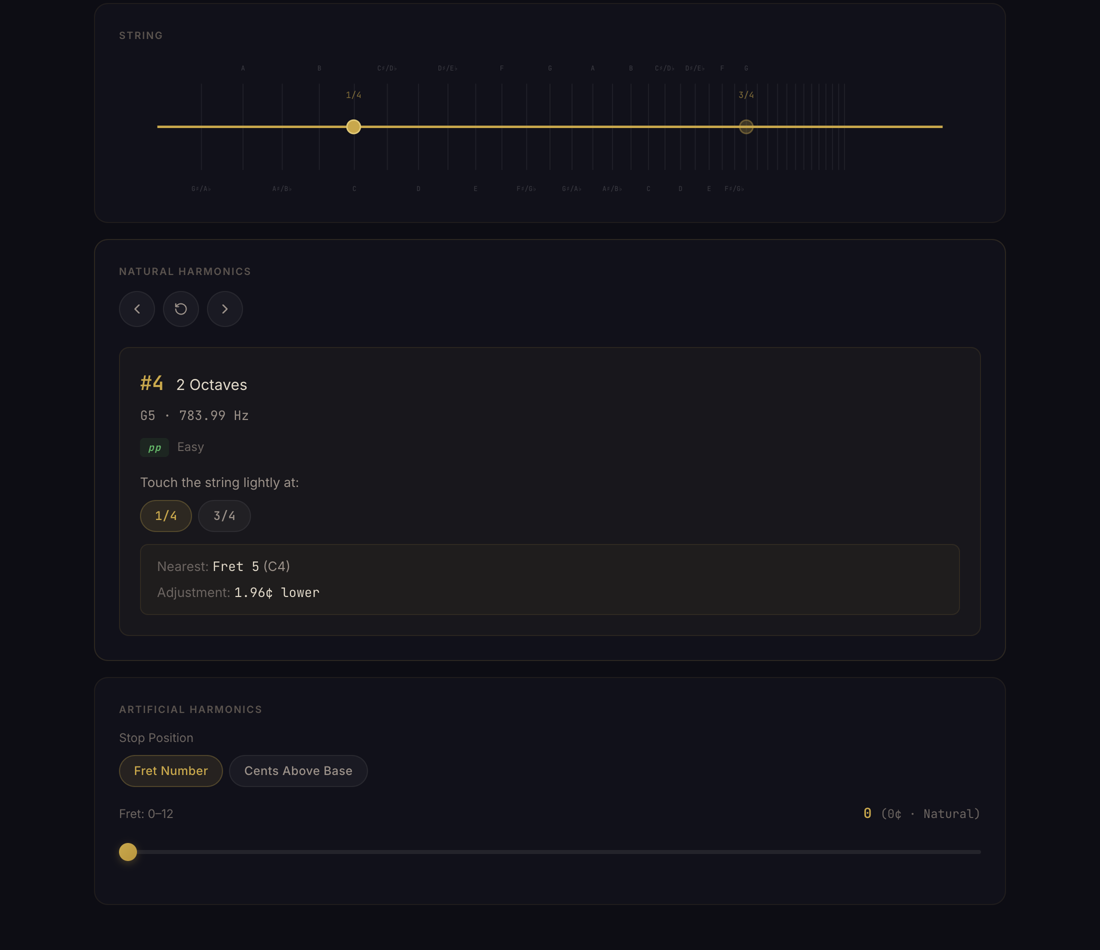
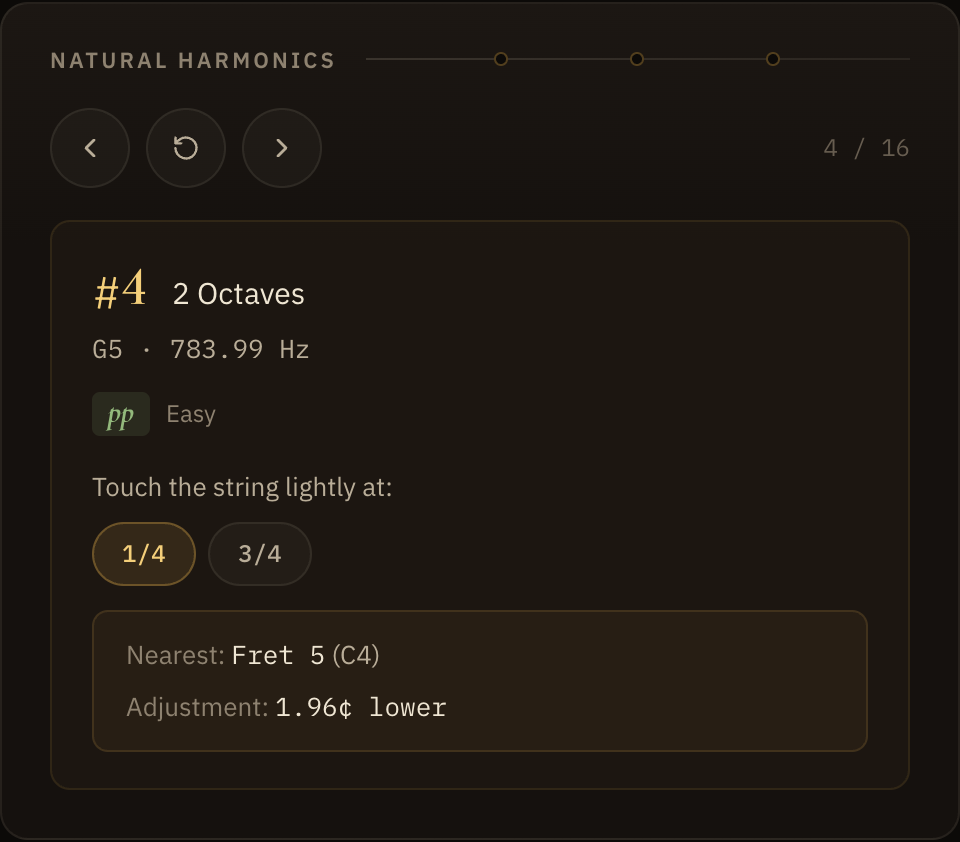
docs: document the new sound, visualizer features and UI with fresh screenshots
The README now covers the modal sound model and which modes survive a
touch, the timbre chart, the drawn Helmholtz motion, the stiff-string
option (formula, the illustrative B = 1.0 × 10⁻⁴ and its effect), the
header simulation, shareable URLs, accessibility and the new file
layout, with each formula pointing at the function that computes it.
Limitations are updated: the sine-tone and missing-tests notes are gone,
and the idealisations of the new models are stated instead.

New screenshots of the redesigned app, taken from the production build:
overview, artificial and natural harmonic panels, timbre, stiff string
and phone.

diff --git a/README.md b/README.md
@@ -1,50 +1,143 @@
 # HarmonicViz
 
-An interactive guide to string harmonics for violin, viola, cello and double bass. Pick a string and a harmonic, and it shows where to touch the string, how far that point is from the nearest semitone position (in cents), and the pitch that sounds.
+An interactive guide to string harmonics for violin, viola, cello and double bass. Pick a string and a harmonic, and it shows where to touch the string, how far that point is from the nearest semitone position (in cents), and the pitch that sounds. It plays a modelled bowed-string tone, charts which partials survive the touch, and draws the string's motion as the sum of those partials.
 
 **Live app:** https://mzhao1599.github.io/harmonicviz/
 
 <p align="center">
-  <img src="docs/artificial-harmonic.png" width="820" alt="HarmonicViz showing an artificial harmonic on the violin G string: stopped at the 2nd semitone position, touching the 4th-harmonic node sounds A5 at 880 Hz; the string between finger and bridge is drawn vibrating with nodes #1 to #8 marked">
+  <img src="docs/overview.png" width="820" alt="HarmonicViz playing natural harmonic #3 on the violin D string. The header shows the four open strings; the D string rings in thirds and the A string rings in halves in sympathy. Below: instrument and string pickers, the pitch A5 at 880.9943 Hz (+1.9550 cents), and the D string drawn to scale in motion with nodes at 1/3 and 2/3.">
 </p>
 
 ## Why
 
-Harmonics are hard to learn from a chart. The touch point for a natural harmonic sits at a simple fraction of the string (1/2, 1/3, 1/4, ...), but those points do not line up with where the fingers normally go, and some are a few cents away from a normal note position. Artificial harmonics add a second step: stop the string with one finger, then lightly touch a node of the *shortened* string with another. HarmonicViz draws all of this to scale on the string and plays the result.
+Harmonics are hard to learn from a chart. The touch point for a natural harmonic sits at a simple fraction of the string (1/2, 1/3, 1/4, ...), but those points do not line up with where the fingers normally go, and some are a few cents away from a normal note position. Artificial harmonics add a second step: stop the string with one finger, then lightly touch a node of the *shortened* string with another. HarmonicViz draws all of this to scale, plays it, and shows why it works: a light touch lets through only the vibration modes that have a node under the finger.
 
 ## What it does
 
-- **Instruments and strings.** Violin (G3 D4 A4 E5), viola (C3 G3 D4 A4), cello (C2 G2 D3 A3) and double bass (E1 A1 D2 G2), tuned from A4 = 440 Hz.
-- **Natural harmonics #1–#16.** For each one: the interval above the open string ("2 Octaves + Major Third"), the sounding note and frequency, a rough difficulty rating, and every touch point that produces that harmonic. Choosing a touch point shows the nearest semitone position and how many cents higher or lower the true node is.
+- **Instruments and strings.** Violin (G3 D4 A4 E5), viola (C3 G3 D4 A4), cello (C2 G2 D3 A3) and double bass (E1 A1 D2 G2), tuned in equal temperament from A4 = 440 Hz.
+- **Natural harmonics #1–#16.** For each one: the interval above the open string ("2 Octaves + Major Third"), the sounding note and frequency, a rough difficulty rating (shown as *pp*, *mf* or *ff*), and every touch point that produces that harmonic. Choosing a touch point shows the nearest semitone position and how many cents higher or lower the true node is.
 - **Artificial harmonics.** A slider sets where the lower finger stops the string (semitone positions 0–12, or any point from 0 to 1200 cents). The app lists harmonics #1–#8 of the stopped note and where to touch for each. #4 is the usual "touch a fourth above" harmonic (two octaves up) and #3 is "touch a fifth above".
-- **String drawing.** An SVG of the string drawn to scale, with semitone positions marked, clickable harmonic nodes, and an optional animated standing wave. In artificial mode only the part between the finger and the bridge vibrates.
-- **Playback.** Plays the sounding pitch as a sine tone.
+- **Bowed-string sound.** Play sounds the harmonic as a sum of the string's modes, not a sine. A **Hear: Touched / Open string** switch (**Stopped, no touch** for artificial harmonics) plays the same string without the touch, for comparison.
+- **Timbre chart.** One bar per mode, gold where the mode survives the touch and grey where the touch removes it, with a tooltip per bar and a table view.
+- **The string in motion.** An SVG of the string drawn to scale, with semitone positions marked, clickable harmonic nodes, and the actual motion of the sounding modes. In artificial mode only the part between the stopping finger and the bridge vibrates.
+- **Stiff strings (cello and bass).** An optional model of bending stiffness that makes the higher harmonics sharp.
+- **Shareable links.** The URL always describes the current view, and **Copy link** copies it.
+- **Playable header.** The instrument's four open strings, simulated mode by mode. Rest the pointer on a string to touch it lightly and click to pluck. They also ring in sympathy with whatever the app is playing.
 
 <p align="center">
-  <img src="docs/natural-harmonic.png" width="640" alt="The natural-harmonics panel for the violin G string, harmonic #4: touch at 1/4 or 3/4 of the string; the nearest semitone position is the 5th (C4), and the true node is 1.96 cents lower">
+  <img src="docs/artificial-harmonic.png" width="820" alt="Artificial harmonic on the violin G string: stopped at semitone 2 (the rosewood marker), harmonic #4 sounds A5 at 880.0000 Hz. The string between finger and bridge vibrates in four segments; the nodes for #1 to #8 are marked.">
+</p>
+
+<p align="center">
+  <img src="docs/natural-harmonic.png" width="400" alt="Natural harmonics panel, violin G string, harmonic #4: G5 at 783.99 Hz, touch at 1/4 or 3/4. Nearest: Fret 5 (C4). Adjustment: 1.96 cents lower.">
+  <img src="docs/artificial-panel.png" width="400" alt="Artificial harmonics panel with the G string stopped at semitone 2: harmonics #1 to #8 of A3. #4 is selected: A5 at 880.00 Hz, touch at Fret 7 (D4), 1.96 cents lower.">
 </p>
 
 ## The math
 
-Everything comes from an ideal string of length *L* whose open pitch is *f₀*. Positions are measured from the nut.
+Everything comes from a string of length *L* whose open pitch is *f₀*. Positions *x* are fractions of the length, measured from the nut.
 
-| Quantity | Formula | Code (`src/App.tsx`) |
+### Where to touch
+
+| Quantity | Formula | Code |
 |---|---|---|
-| Open-string pitch | f₀ = 440 · 2^(semitones from A4 / 12) | `calculateFrequencyFromA440` |
-| Natural harmonic *n* | fₙ = n · f₀ | `playNote` |
-| Touch points for harmonic *n* | x = (i/n) · L for every i < n with gcd(i, n) = 1 | `getHarmonicPositions` |
-| Semitone position *k* | x = (1 − 2^(−k/12)) · L | `getPositionInfo` |
-| Offset from semitone position *k* | 1200 · log₂((L − x_k) / (L − x)) cents | `getPositionInfo` |
-| Stopped note, *c* cents above open | f_s = f₀ · 2^(c/1200), stopped at x_s = (1 − 2^(−c/1200)) · L | `calculateArtificialHarmonics`, `getStopPosition` |
-| Artificial touch point for harmonic *n* | x_s + (L − x_s)/n, sounding n · f_s | `calculateArtificialHarmonics` |
+| Open-string pitch | f₀ = 440 · 2^(semitones from A4 / 12) | `noteToFrequency` in [`src/lib/music.ts`](src/lib/music.ts) |
+| Natural harmonic *n* | fₙ = n · f₀ | `src/App.tsx` |
+| Touch points for harmonic *n* | x = i/n for every i < n with gcd(i, n) = 1 | `naturalTouchPoints` |
+| Semitone position *k* | x_k = 1 − 2^(−k/12) | `semitonePosition` |
+| Offset from semitone position *k* | 1200 · log₂((1 − x_k) / (1 − x)) cents | `nearestSemitone` |
+| Stopped note, *c* cents above open | f_s = f₀ · 2^(c/1200), stopped at x_s = 1 − 2^(−c/1200) | `artificialHarmonics`, `centsToPosition` |
+| Artificial touch point for harmonic *n* | x_s + (1 − x_s)/n, sounding n · f_s | `artificialTouchPosition` |
 
-The gcd filter matters: touching at 2/4 of the string gives the 2nd harmonic, not the 4th, so each harmonic lists only the fractions in lowest terms. On the violin G string, the 1/4 node is 1.96 cents below the 5th semitone position (C4). On any string, the 5th harmonic (a pure major third, two octaves up) sounds 13.69 cents below its equal-tempered note.
+The gcd filter matters: touching at 2/4 of the string gives the 2nd harmonic, not the 4th, so each harmonic lists only the fractions in lowest terms. Some values the tests check:
+
+- On the violin G string, the 1/4 node is **1.96 cents below** the 5th semitone position (C4).
+- On any string, the 5th harmonic (a pure major third, two octaves up) sounds **13.69 cents below** its equal-tempered note.
+- The violin G string stopped at the 2nd semitone position (A3), touched for harmonic #4, sounds **880 Hz** (A5), with the touch 1.96 cents below the 7th semitone position (D4).
+
+### Sound: which modes survive the touch
+
+The string vibrates as a sum of normal modes k = 1, 2, 3, ... Mode *k* has shape sin(kπx) and frequency k · f₀. The code is in [`src/lib/timbre.ts`](src/lib/timbre.ts).
+
+| Quantity | Formula | Code |
+|---|---|---|
+| Modes used | k = 1..32, below 16 kHz | `MAX_MODES`, `MAX_PARTIAL_FREQ` |
+| A light touch at *x* keeps mode *k* when | \|sin(kπx)\| < 10⁻⁹, i.e. the mode has a node at *x* | `hasNodeAt`, `stringModes` |
+| Bowed-string (Helmholtz) displacement of mode *k* | a_k = 1/k² | `helmholtzDisplacement` |
+| Force on the bridge (what you hear) | k · a_k = 1/k, a sawtooth | `helmholtzBridgeForce` |
+| Level in the chart | 20 · log₁₀(1/k) dB relative to mode 1 | `levelDb` |
+
+Touching at i/n (in lowest terms) keeps modes n, 2n, 3n, ..., so the lowest surviving mode is harmonic *n* itself. For an artificial harmonic the same rule is applied to the vibrating length between the stopping finger and the bridge, with the touch at 1/n of that length. The sounding partials are scaled to the same RMS level as a unit sine (`partialAmplitudes`), so a touched harmonic is as loud as the open string.
+
+### Drawing the motion
+
+The string is drawn as
+
+  y(x, t) = Σ a_k · sin(kπx) · sin(2π f_k t)
+
+over the modes you hear (`displacement`). With every mode this is Helmholtz motion, a single corner running round a parallelogram-shaped envelope. With only multiples of *n* it is *n* copies of that motion, one per segment, standing still at the nodes. Time is slowed by a single common factor, so the lowest sounding mode completes 0.75 cycles per second and every frequency ratio stays true. A faint band shows the envelope (`displacementEnvelope`).
+
+### Stiff strings
+
+With **Stiff string** on (cello and bass), the strings get bending stiffness:
+
+  f_k = k · f₀ · √(1 + B·k²),  B = 1.0 × 10⁻⁴
+
+B is an illustrative value, not a measurement: real values depend on the string's core, winding, tension and length (for comparison, piano bass strings are around 2 × 10⁻⁴). The open string stays in tune, so f₀ = f_open / √(1 + B). Stopping the string shortens it to 1 − x_s, which gives f₀ / (1 − x_s) and B / (1 − x_s)², since B scales as 1/L². Mode shapes stay sin(kπx), so **the touch points do not move**, but every harmonic above the first comes out sharp by 600 · log₂((1 + B·n²)/(1 + B)) cents: +1.30 cents for #4 and +21.79 cents for #16 on an open string. With the toggle off every number is the ideal-string value. Code: `modeFrequency`, `vibratingLength`, `harmonicFrequency`, `inharmonicityCents`.
+
+<p align="center">
+  <img src="docs/timbre.png" width="560" alt="Timbre card for the violin G string touched at 1/4: 8 of 32 partials survive (modes 4, 8, 12, ... in gold, the rest grey), levels in dB from 0 to −36, with a tooltip on mode 20.">
+</p>
+
+<p align="center">
+  <img src="docs/stiff-string.png" width="820" alt="Cello C string, harmonic #16, with the stiff-string option on (B = 1.0 × 10⁻⁴): C6 sounds at 1059.7599 Hz, 21.79 cents above the ideal string.">
+</p>
+
+### The header strings
+
+The header simulates the four open strings of the chosen instrument ([`src/lib/stringSim.ts`](src/lib/stringSim.ts)). Each string has 24 modes, each a damped oscillator
+
+  q_k″ = −ω_k² q_k − 2γ_k q_k′ + F_k(t)
+
+integrated in slowed-down time: the lowest string's fundamental runs at 0.9 Hz and the others in proportion to their pitch. Base damping is γ_k = 0.4 · (1 + 0.08k).
+
+- **Pointer = light finger.** A finger at *x* adds ζ · ω_k · sin²(kπx) of damping with ζ = 0.9, a fraction of critical damping. A mode with a node under the finger loses nothing.
+- **Click = pluck.** A click plucks at 0.88 of the length (near the bridge), adding the Fourier coefficients of a triangle, 2h · sin(kπβ) / (k²π² β(1 − β)). Rest the pointer at 1/3 and click, and harmonic #3 is what remains. A hint names the harmonic when the pointer sits on a node, and clicking a string also selects it.
+- **Sympathetic resonance.** While the app plays, mode *k* of each string is driven by every sounding partial through a Lorentzian of half-width 4 cents around k · f. Playing the D string's 3rd harmonic (880.99 Hz) makes the A string ring in its 2nd mode (880 Hz).
+- **Intro and idle.** On load the strings are plucked from lowest to highest, 0.32 s apart (any key, scroll or tap skips this). At rest, modes 1–3 get faint random kicks.
+
+The loop pauses when the header is off screen and caps the canvas at 2× device pixels.
+
+## Shareable links
+
+The query string mirrors the view, so any state can be linked:
+
+| Example | Meaning |
+|---|---|
+| `?instrument=violin&string=G3&harmonic=4&touch=3` | natural harmonic #4, touched at 3/4 |
+| `?instrument=violin&string=G3&fret=2&artificial=4` | stopped at semitone 2, artificial harmonic #4 |
+| `?instrument=bass&string=E1&cents=250&artificial=3` | stopped 250 cents up, artificial harmonic #3 |
+| `...&stiff=1` | stiff-string model (cello and bass only) |
+
+Missing or invalid values fall back to the defaults, and a touch point must be in lowest terms (`touch=2` with `harmonic=4` is ignored). See [`src/lib/urlState.ts`](src/lib/urlState.ts).
+
+## Accessibility and phones
+
+- Everything is a real button, so it works from the keyboard. The nodes on the string diagram are focusable and respond to Enter and Space.
+- Toggles expose `aria-pressed`, the sliders have value text, and the current pitch is announced.
+- Under `prefers-reduced-motion` the string drawing, the header and the small animations each show one still frame.
+- On narrow screens the string diagram scrolls sideways instead of shrinking its labels, and the header's instructions change for touch ("Hold a finger on a string ... each tap plucks").
+
+<p align="center">
+  <img src="docs/phone.png" width="300" alt="HarmonicViz on a phone: the header with the four violin strings and touch instructions, the instrument and string pickers, and the pitch card playing G5.">
+</p>
 
 ## How it is built
 
-- **React 19 + TypeScript + Vite 7.** The app is one component, [`src/App.tsx`](src/App.tsx), styled by [`src/App.css`](src/App.css).
-- **Rendering.** Plain SVG. The standing wave is 100 line segments of height `8 · sin(π·n·x) · sin(phase)`, with the phase advanced on a 16 ms timer.
-- **Audio.** The Web Audio API directly: one sine `OscillatorNode` through a `GainNode`. No audio library.
+- **React 19 + TypeScript + Vite 7.** The math is pure TypeScript in `src/lib/` (no React, no DOM): `music.ts`, `timbre.ts`, `urlState.ts` and `stringSim.ts`, each with Vitest tests next to it. [`src/App.tsx`](src/App.tsx) holds the state and composes the components in `src/components/`.
+- **Rendering.** SVG for the string diagram and the timbre chart, with the moving string written straight into its path element from a `requestAnimationFrame` loop so the rest of the page does not re-render every frame. Canvas 2D for the header strings.
+- **Audio.** The Web Audio API directly ([`src/audio/ToneEngine.ts`](src/audio/ToneEngine.ts)). One `AudioContext` lives for the whole page. Each sound is a bank of sine `OscillatorNode`s, one per partial, summed into a voice gain that fades in over 30 ms and out over 60 ms. Changing notes crossfades between voices, so nothing clicks. No audio library.
+- **CI.** [`.github/workflows/build.yml`](.github/workflows/build.yml) runs lint, the tests and the build on every push to `main` and on pull requests.
 - **Deployment.** `npm run deploy` builds with `base: '/harmonicviz/'` and pushes `dist/` to the `gh-pages` branch, which GitHub Pages serves.
 
 ## Run it locally
@@ -55,13 +148,17 @@ Requires Node 20.19 or newer (Vite 7).
 git clone https://github.com/mzhao1599/harmonicviz && cd harmonicviz
 npm ci
 npm run dev        # http://localhost:5173/harmonicviz/
+npm test           # unit tests (Vitest)
+npm run lint
 npm run build      # type-check, then build into dist/
 ```
 
 ## Limitations
 
-- The tone is a pure sine wave. It gives the right pitch but does not sound like a bowed string.
-- The marker lines are equal-tempered semitone positions. Bowed strings have no frets; the app says "fret" to mean "where that semitone is stopped".
-- For each artificial harmonic the app shows only the node nearest the stopping finger, which is the one players use.
-- Difficulty ratings are fixed by harmonic number, not measured.
-- There are no automated tests, and `npm run lint` currently reports errors (explicit `any` types, and functions used in effects before they are declared).
+- **Ideal-string model.** The sound is the string's modes only: no instrument body, no bow noise, no vibrato.
+- **The touch is an ideal filter.** Each mode is either kept or removed. A real finger damps modes by degrees, and a real harmonic keeps a little of the removed partials.
+- **Illustrative stiffness.** The stiff-string B is illustrative and the same for every cello and bass string. Violin and viola have no stiffness option.
+- **Uncoupled header modes.** The header strings are a visual model: their modes are uncoupled, the finger is modal damping rather than a constraint, and they ignore stiffness.
+- **"Fret" means semitone position.** The marker lines are equal-tempered semitone positions. Bowed strings have no frets; the app says "fret" to mean "where that semitone is stopped".
+- **One node per artificial harmonic.** For each artificial harmonic the app shows only the node nearest the stopping finger, which is the one players use.
+- **Fixed difficulty ratings.** Difficulty ratings are fixed by harmonic number, not measured.
